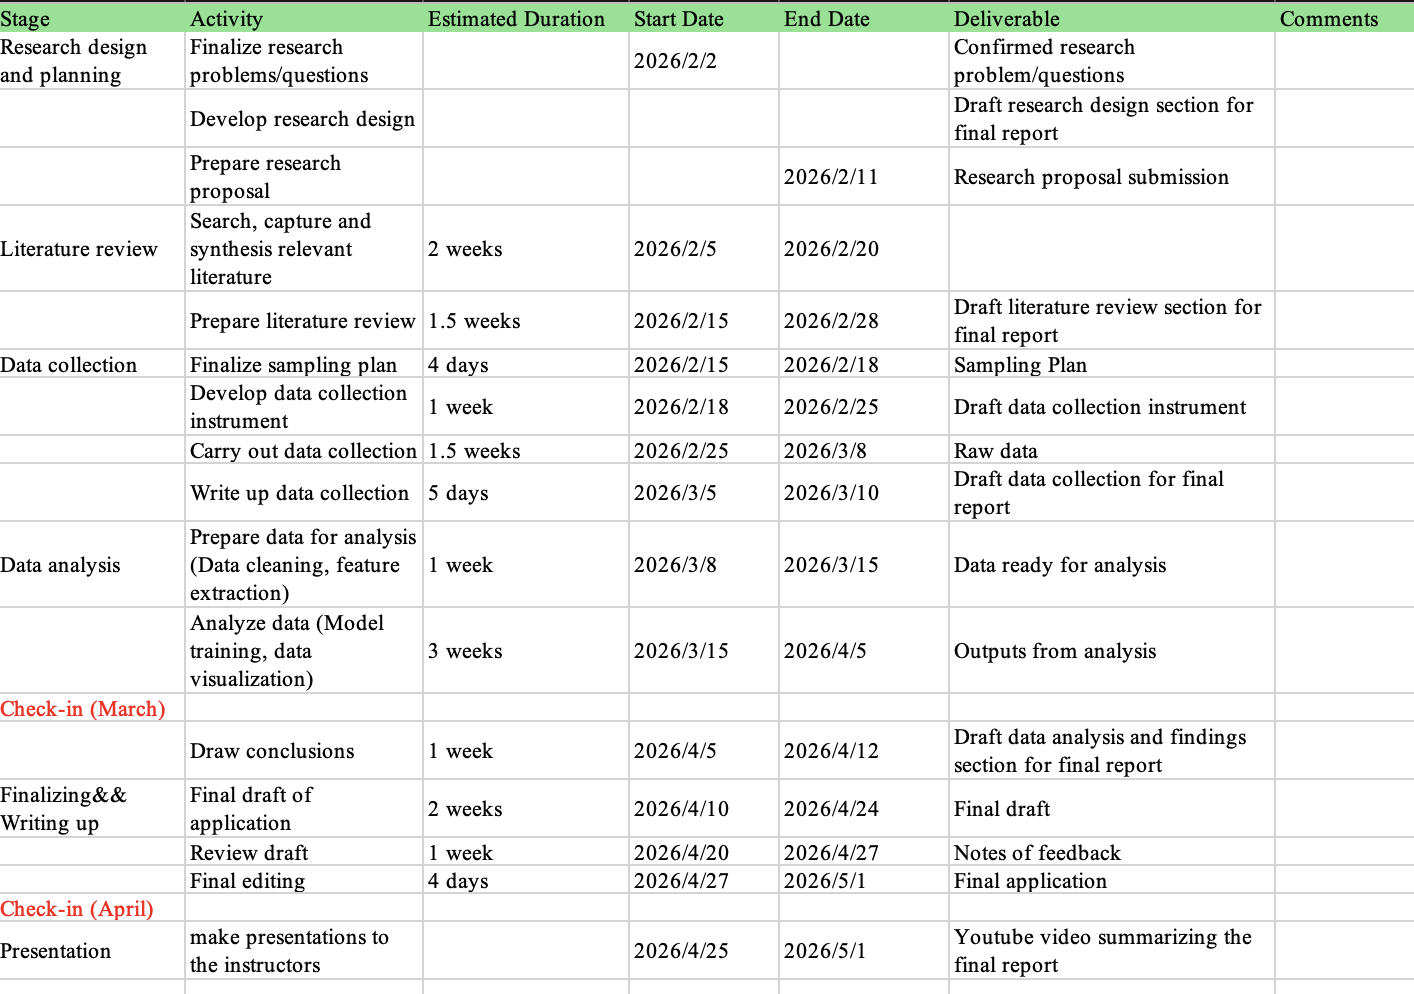
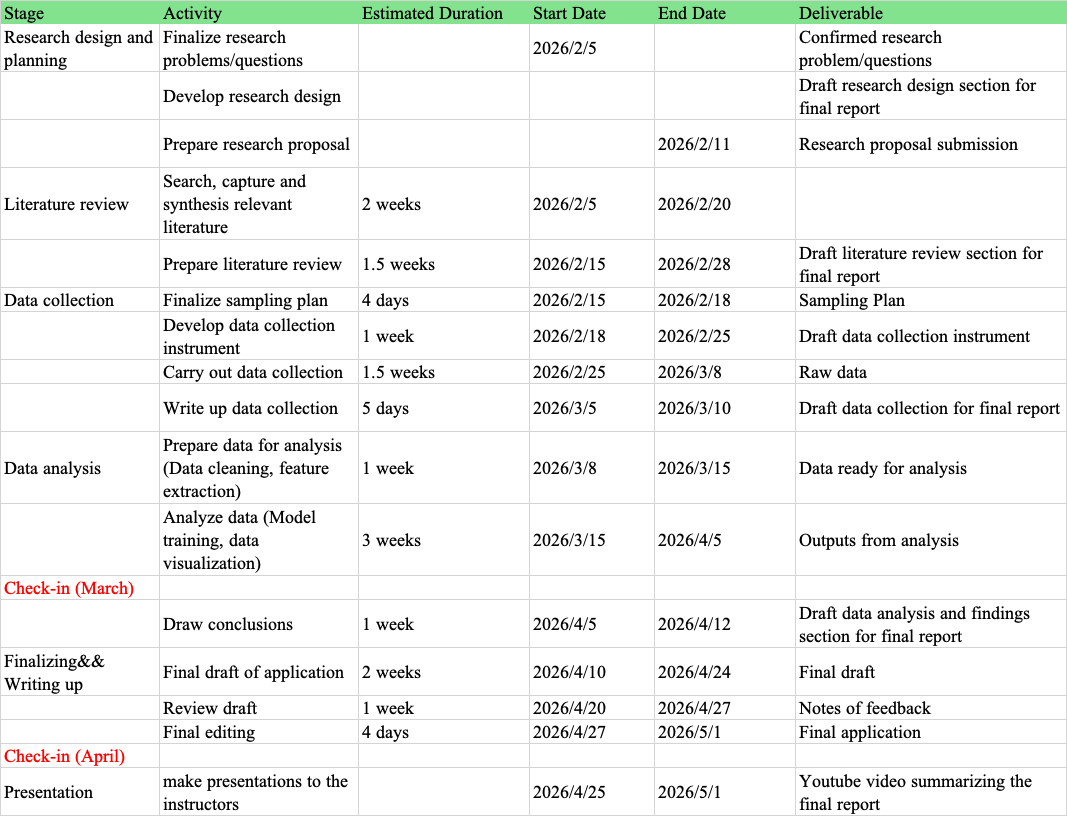
A text version of timeline.

diff --git a/README.md b/README.md
@@ -7,7 +7,29 @@ In terms of methodology, the project will utilize statistical analysis and machi
 
 ### Timeline
 
-![timeline](./assets/timeline.png)
+<!-- ![timeline](./assets/timeline.png) -->
+
+| Stage | Activity | Estimated Duration | Start Date | End Date | Deliverable | Comments |
+|------|---------|-------------------|-----------|----------|-------------|----------|
+| Research design and planning | Finalize research problems/questions |  | 2026/2/2 |  | Confirmed research problem/questions |  |
+|  | Develop research design |  |  |  | Draft research design section for final report |  |
+|  | Prepare research proposal |  |  | 2026/2/11 | Research proposal submission |  |
+| Literature review | Search, capture and synthesis relevant literature | 2 weeks | 2026/2/5 | 2026/2/20 |  |  |
+|  | Prepare literature review | 1.5 weeks | 2026/2/15 | 2026/2/28 | Draft literature review section for final report |  |
+| Data collection | Finalize sampling plan | 4 days | 2026/2/15 | 2026/2/18 | Sampling Plan |  |
+|  | Develop data collection instrument | 1 week | 2026/2/18 | 2026/2/25 | Draft data collection instrument |  |
+|  | Carry out data collection | 1.5 weeks | 2026/2/25 | 2026/3/8 | Raw data |  |
+|  | Write up data collection | 5 days | 2026/3/5 | 2026/3/10 | Draft data collection for final report |  |
+| Data analysis | Prepare data for analysis (Data cleaning, feature extraction) | 1 week | 2026/3/8 | 2026/3/15 | Data ready for analysis |  |
+|  | Analyze data (Model training, data visualization) | 3 weeks | 2026/3/15 | 2026/4/5 | Outputs from analysis |  |
+| Check-in (March) |  |  |  |  |  |  |
+|  | Draw conclusions | 1 week | 2026/4/5 | 2026/4/12 | Draft data analysis and findings section for final report |  |
+| Finalizing & Writing up | Final draft of application | 2 weeks | 2026/4/10 | 2026/4/24 | Final draft |  |
+|  | Review draft | 1 week | 2026/4/20 | 2026/4/27 | Notes of feedback |  |
+|  | Final editing | 4 days | 2026/4/27 | 2026/5/1 | Final application |  |
+| Check-in (April) |  |  |  |  |  |  |
+| Presentation | Make presentations to the instructors |  | 2026/4/25 | 2026/5/1 | YouTube video summarizing the final report |  |
+
 
 ## Clear goals
 
